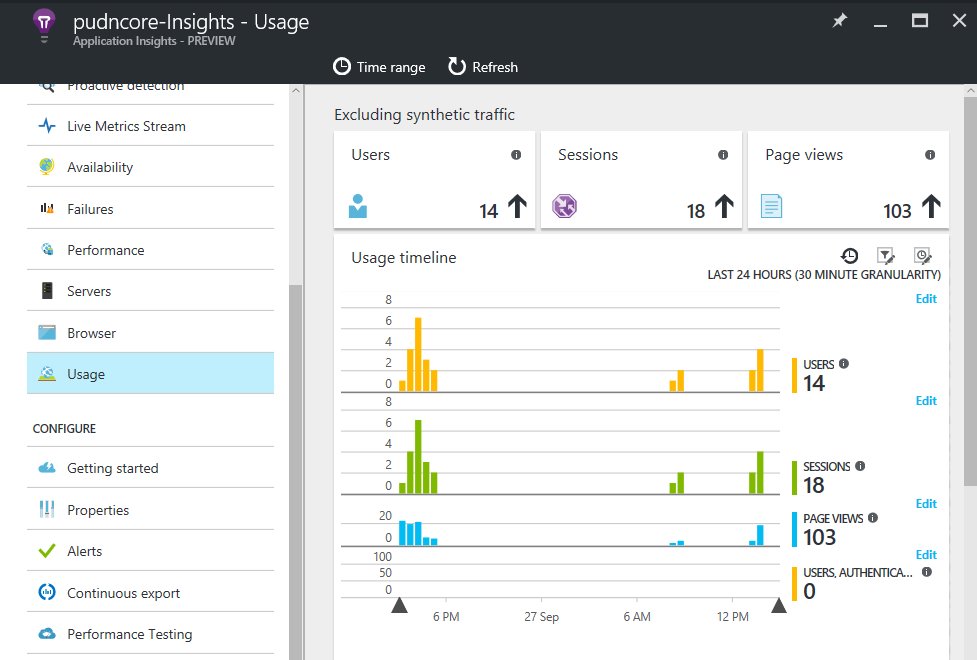
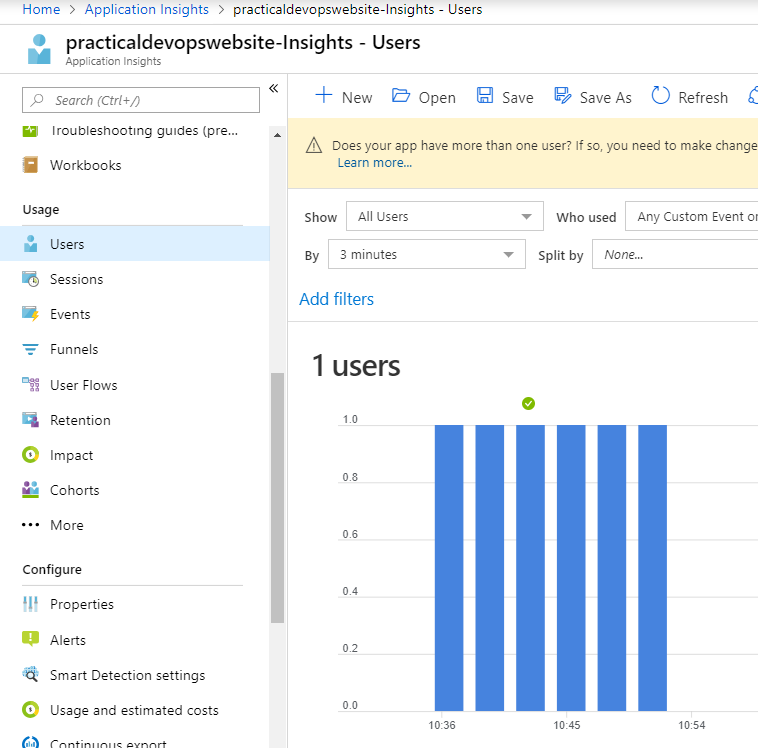
Application insights lab updated

diff --git a/docs/User_Telemetry_APM_With_App_Insights/LabDescription.md b/docs/User_Telemetry_APM_With_App_Insights/LabDescription.md
@@ -42,51 +42,41 @@ Click on the name of the telemetry that was created when you deployed the resour
 
 **Step 4.** 
 
-In the overview panel of the Application Insights instance, overall application health will be shown in server response time, page view load time, server requests, and failed requests. (Actual times may vary)
+In the overview panel of the Application Insights instance, overall application health will be shown in Failed requests, Server response time, Server requests, Availability and Unique users. (Actual times may vary)
 
 ![](<media/task2step3.png>)
 
 **Step 5.** 
 
-In the Application Insights instance blade, scroll down and click on the "Usage" tile. By drilling into usage, we can gauge how popular our web application is based on the number of distinct users, active sessions, and number of calls to trackPageView() (usually called once). Click on "Users" to view more information about the users.
+In the Application Insights instance blade, scroll down to the "Usage" section. By clicking on one of the subjects, we can gauge how popular our web application is based on the number of distinct users, active sessions, and number of calls to trackPageView() (usually called once). Click on "Users" to view more information about the users.
 
 ![](<media/task2step4.png>)
 
 **Step 6.** 
 
-In the Users timeline, note the number of users, new users, and page views. Additionally, the unique count of users by country is recorded. Click the X in the upper-right corner to close the Users panel.  
-
-![](<media/task2step6.png>)
+In the Users timeline, note the number of users, new users, and page views. Additionally, the unique count of users by country is recorded.  
 
 **Step 7.** 
 
-Back in the overview panel of the Application Insights instance, click on the chart for Page View Load Time.
+Click on the **Performance** page under the **Investigate** section. It will show how your application performs, how long it takes for the client to retrieve and display the page requested by the user.
 
 ![](<media/task2step7.png>)
 
 **Step 8.** 
 
-In the Browsers timeline, note the receiving response time, client processing time, page load network time, send request time, server response time, and page views. Additionally, the average count of browser page load time is shown below the timeline. Click on the "Edit" button in the first timeline chart.
+Note the toggle at the right-hand top side, where you can switch between Server and Browser (client) metrics. If you scroll down, you can see the actual duration it took from request until page load completed at the client-side.
 
 ![](<media/task2step8.png>)
 
-**Step 9.** 
-
-In the Chart Details pane, scroll down to the Client area and uncheck all of the properties except for Receiving Response Time. Then, turn on the Grouping and select "Browser version" as the "group by" property. The Browsers timeline will change and show the average receiving response time broken down into the various browsers that were used to log into the site.
-
-![](<media/task2step9.png>)
-
-![](<media/task2step9b.png>)
-
 **Step 10.** 
 
-Back in the Usage panel, and click on "Page views".
+Go to the **Usage** section and click **... More**. This will take you to a gallery of reports that are ready for use. Click the **Analysis of Page Views** report to open it.
 
 ![](<media/task2step10.png>)
 
 **Step 11.** 
 
-The Page Views panel will break down the total page views, number of users, and pages per session for the web application.
+The Page Views report will break down the Usage, Time spent on page, Time to first interaction and Page exit rates. Also take a look at the other reports, they contain valuable information. It is possible to create one or more custom reports using the quick start templates.
 
 ![](<media/task2step11.png>)
 
@@ -97,8 +87,7 @@ In this step you will investigate and resolve a performance issue with the help 
 
 **Step 1.** 
 
-In an Internet browser, navigate to the PartsUnlimited website that you previously deployed and 
-go to the Recommendations page.
+In an Internet browser, navigate to the PartsUnlimited website that you previously deployed and go to the Recommendations page. If you can't find a link to the page, go to (your base url)/home/recommendations. It will take a little while to load. Load it multiple times.
 
 ![](<media/task3-step6.png>) 
 
@@ -110,15 +99,14 @@ In the Application Insights instance blade, scroll down and select the “Perfor
 
 **Step 3.** 
 
-In the Performance panel, note the timeline. The timeline data may not show up immediately, 
-so you will want to wait for a few minutes for the telemetry to collect performance data.
-
-![](<media/task3-step2.png>)
+In the Performance panel, note the timeline. The timeline data may not show up immediately, so you will want to wait for a few minutes for the telemetry to collect performance data.
 
 **Step 4.** 
 
-Once data shows in the timeline, view the operations listed under the **Average of server response time by operation name** section under the timeline. 
+Once data shows in the timeline, view the operations section under the timeline. 
 Click on the top operation in the list referring to the recommendations page to view details of that operation.
+
+![Page load issue](<media/RecommendationsIssue.png>)
 
 **Step 5.** 
 Drill down into the method that is affecting the slow performance. We now know where the slow performance is being caused in our code.
@@ -145,9 +133,7 @@ Now that our changes have deployed to the website, open up a new incognito brows
 
 **Step 9.** 
 
-Return to the Application Insights performance monitoring view in the Azure Preview Portal and refresh the page.
-
-![](<media/task3-step7.png>) 
+Return to the Application Insights performance monitoring view in the Azure Preview Portal and refresh the page. Note that after some time, you see better performance of the page.
 
 In this lab, you learned how to set up Application Insights telemetry to gain further insight into how users are behaving towards your web application, and drill down into performance monitoring data through Application Insights in the new Azure Portal.
 
